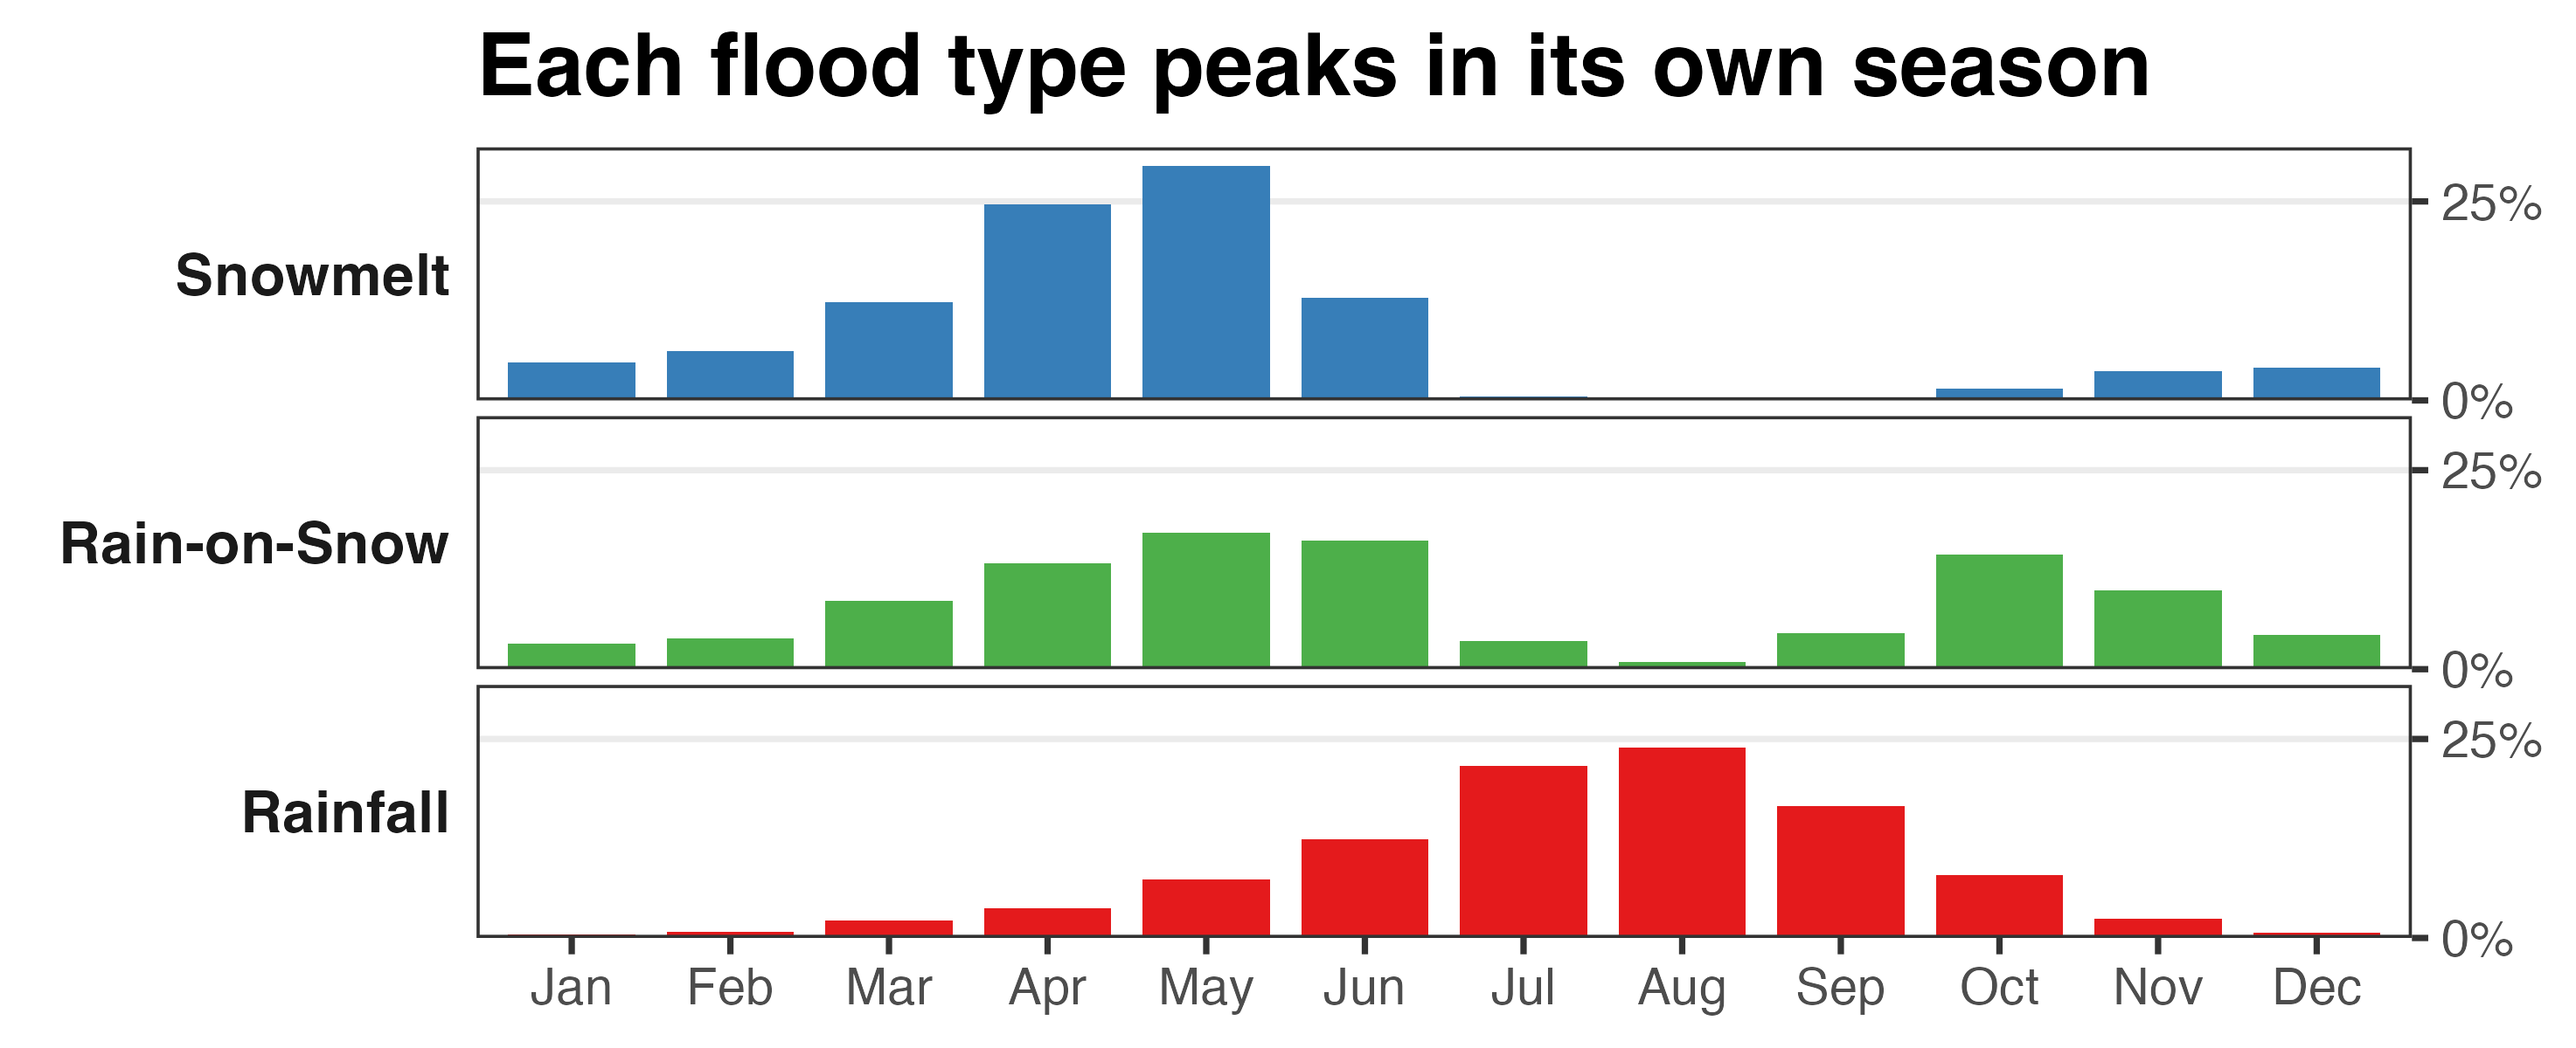
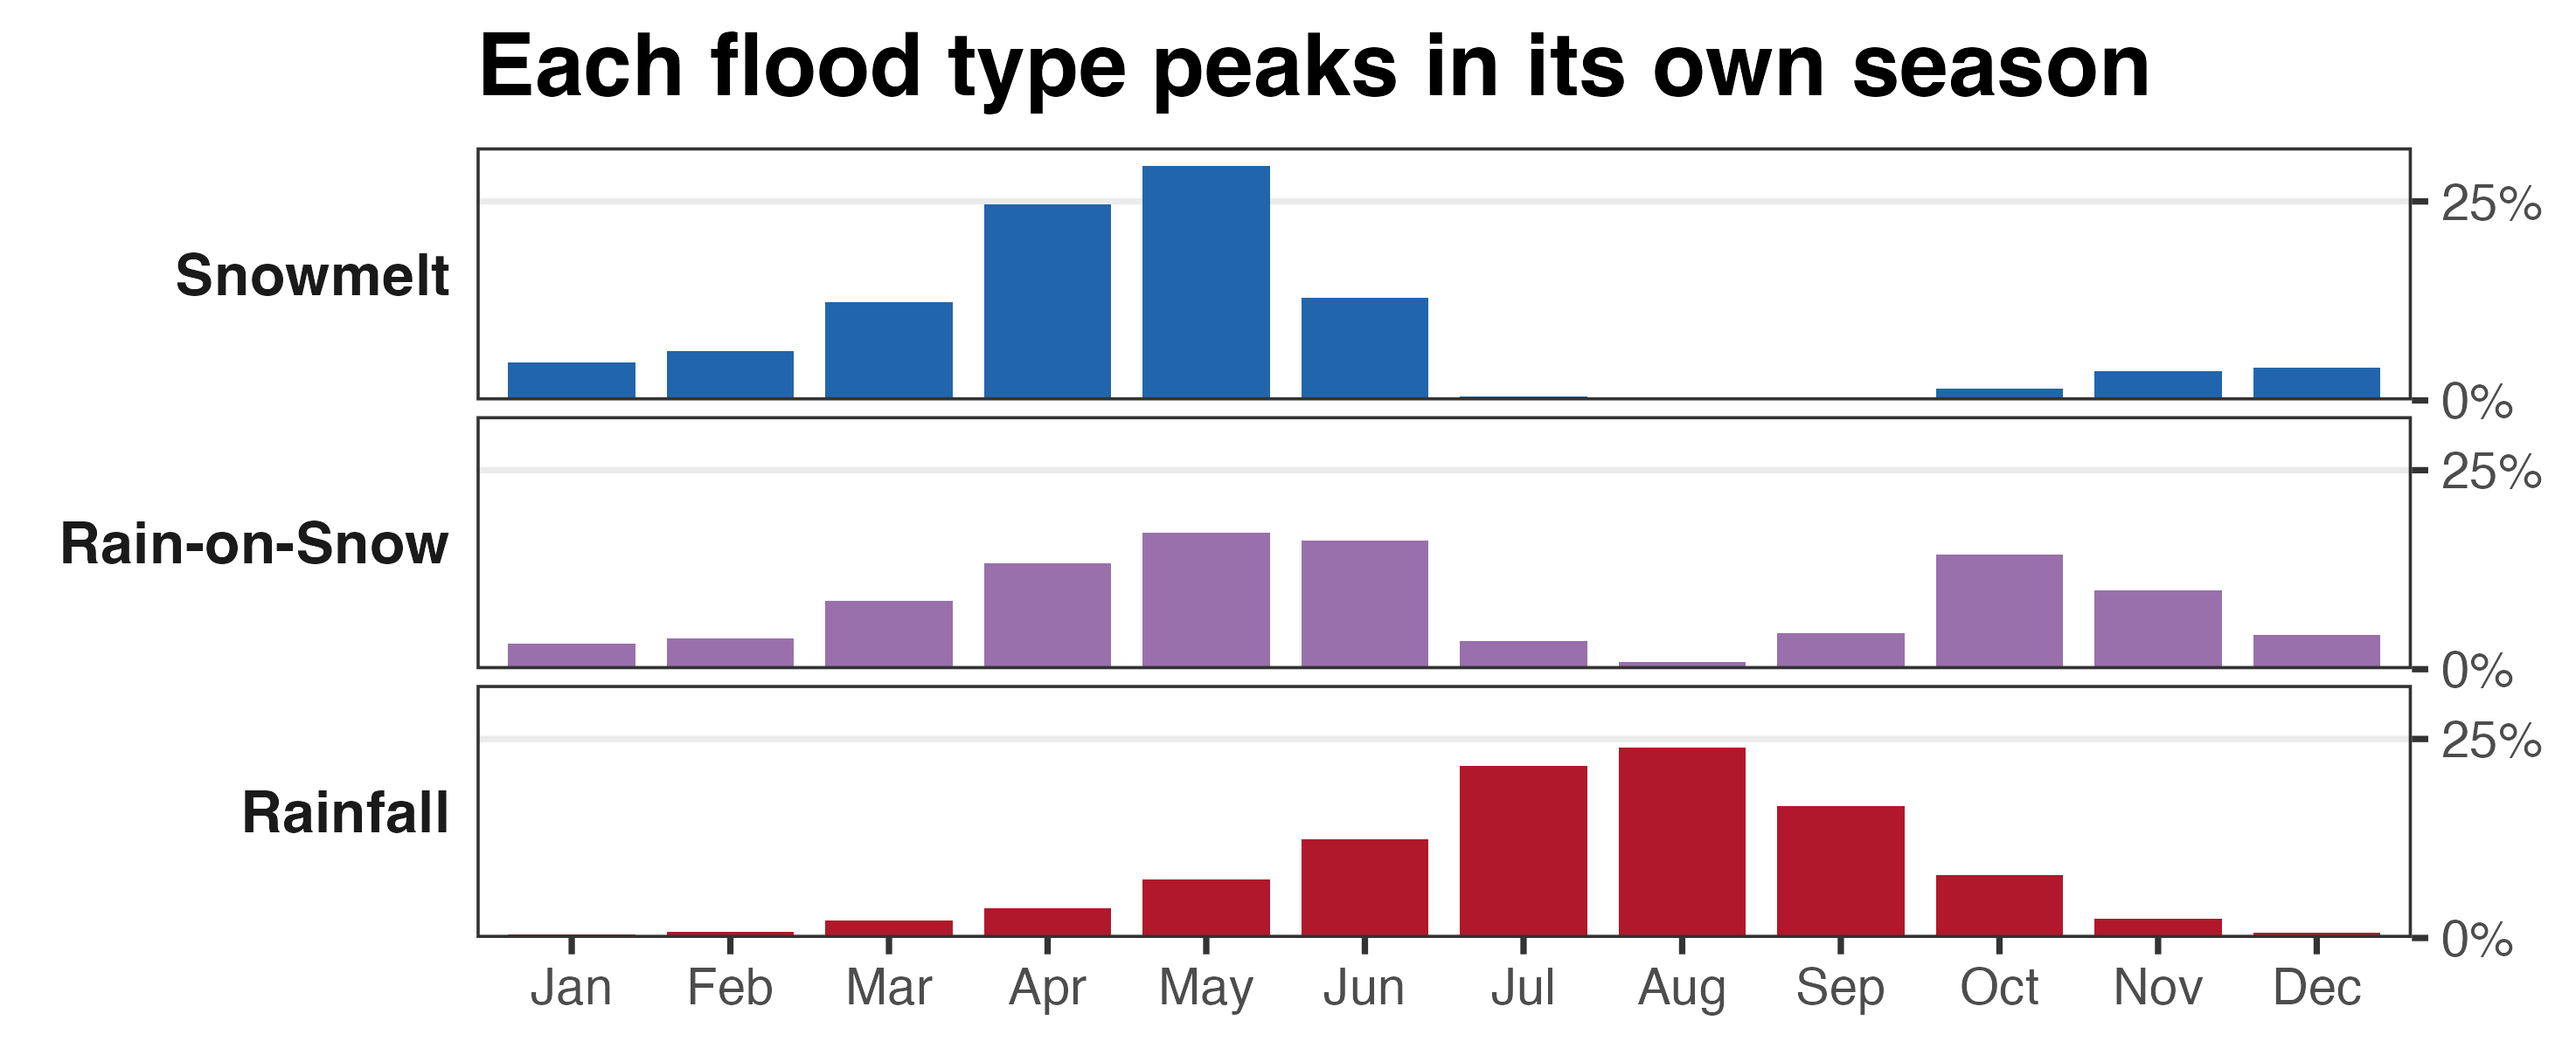
Poster: use the dashboard's flood-type colours (rain-on-snow purple)

Changed region(s): [[0.3122, 0.7092, 0.8741, 0.8942], [0.1873, 0.4933, 0.6556, 0.6475], [0.6868, 0.5242, 0.9365, 0.6475]]

diff --git a/_documentation/poster_wireframe/build.js b/_documentation/poster_wireframe/build.js
@@ -9,7 +9,7 @@ const FIG = "/Users/mtalbot/Desktop/GitHub/CoWC_FY26_Enhanced_Impacts_Support/_d
 const OUT = process.argv[2];
 
 const GREEN = "1E4D2B", GOLD = "C8C372", GREY = "F2F2F2", DARK = "222222", MUTED = "595959";
-const C_RAIN = "E41A1C", C_SNOW = "377EB8", C_ROS = "4DAF4A", C_UNC = "CCCCCC", C_DIAM = "FFF5C2";
+const C_RAIN = "B2182B", C_SNOW = "2166AC", C_ROS = "9970AB", C_UNC = "CCCCCC", C_DIAM = "FFF5C2";
 const FONT = "Arial";
 
 const pres = new pptxgen();
